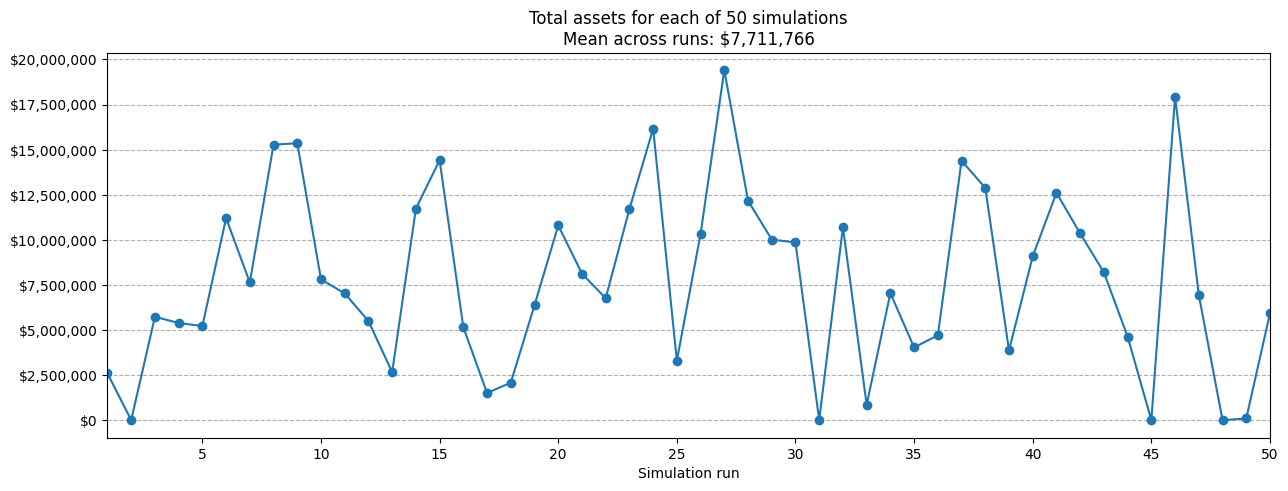
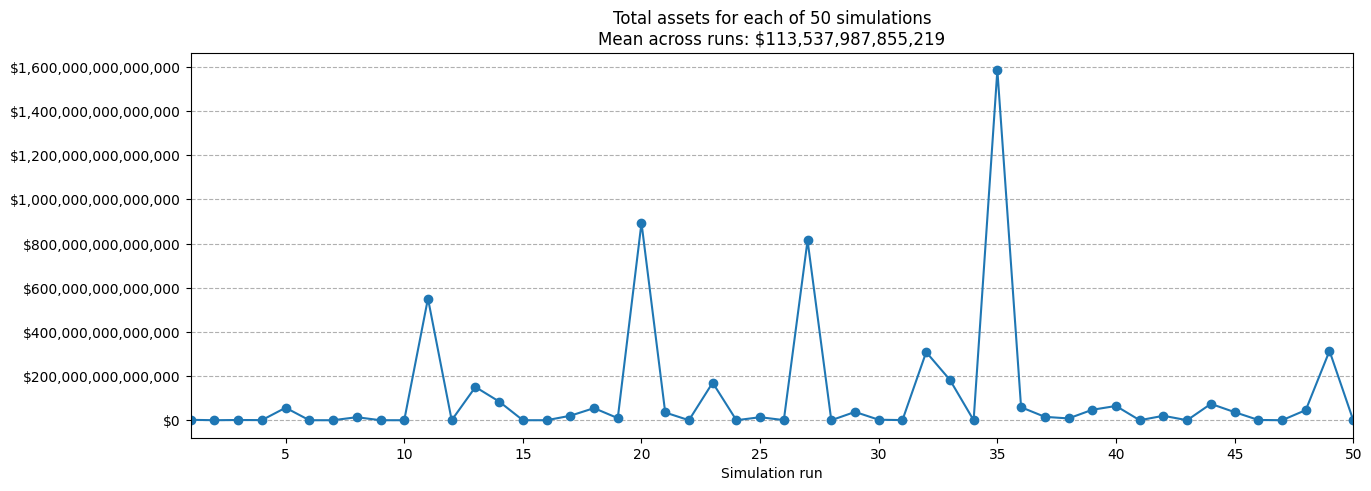
Update price function

diff --git a/simulation.py b/simulation.py
@@ -9,14 +9,8 @@ from matplotlib import ticker
 import player
 
 # Define coin constants
-#   Starting (or maximum) pool of coins X is arbitrary.
-#   Slope and intercept terms come from fitting a straight line between the following two points:
-#   (1) when there are X coins in the pool, the price should be $0.10;
-#   (2) when there are 10% of the coins left in the pool, the price should be $10.
-#   When there are 0 coins in the pool, the price will be the intercept term.
 STARTING_POOL_OF_COINS = 100000
-SLOPE = -0.00011
-INTERCEPT = 11.1
+STARTING_PRICE_IN_DOLLARS = 0.1
 
 # Define time constants
 DURATION_IN_MINUTES = 60
@@ -34,21 +28,22 @@ results = []
 
 
 # Define function to calculate price based on pool of coins
-def calculate_price(slope, intercept, pool):
-    return round(slope * pool + intercept, 2)
+def calculate_price(pool):
+    return 50000 / ((pool / 250) ** 2.2)
 
 
 # Iterate simulations
 for simulation in range(NUM_SIMULATIONS):
 
     # Initialise simulation parameters
-    seconds_remaining = DURATION_IN_MINUTES * 60
-    minutes_remaining = DURATION_IN_MINUTES
+    first_buy_transacted = False
     pool_of_coins = STARTING_POOL_OF_COINS
     trade_number = 1
+    seconds_remaining = DURATION_IN_MINUTES * 60
+    minutes_remaining = DURATION_IN_MINUTES
 
     # Initialise dictionary and dataframe to store the history of prices in previous transactions
-    history_dict = {
+    history = {
         'transaction': [],
         'price_history': [],
         'minutes_remaining': [],
@@ -64,15 +59,22 @@ for simulation in range(NUM_SIMULATIONS):
     # Iterate trades
     while seconds_remaining > 0:
 
-        # Calculate current price
-        current_price = calculate_price(SLOPE, INTERCEPT, pool_of_coins)
+        # Calculate current price (starting price differs until first buy is transacted)
+        if not first_buy_transacted:
+            current_price = STARTING_PRICE_IN_DOLLARS
+        else:
+            try:
+                current_price = calculate_price(pool_of_coins)
+            except ZeroDivisionError:
+                current_price = history['price_history'][-1]
 
         # Randomly select player
         selected_player = choice(players)
-        trade_decision, trade_proportion = selected_player.implement_trading_strategy(pandas.DataFrame(history_dict))
+        trade_decision, trade_proportion = selected_player.implement_trading_strategy(pandas.DataFrame(history))
 
         # Buy coins
         if trade_decision == 'buy':
+            first_buy_transacted = True
             money_to_spend = selected_player.money * trade_proportion
             coins_to_buy = min(int(money_to_spend // current_price), pool_of_coins)
             selected_player.coins += coins_to_buy
@@ -90,12 +92,12 @@ for simulation in range(NUM_SIMULATIONS):
 
         # Do not buy or sell coins
         if trade_decision == 'hold' and trade_number > 1:
-            current_price = history_dict['price_history'][-1]
+            current_price = history['price_history'][-1]
 
         # Update history
-        history_dict['transaction'].append(trade_number)
-        history_dict['price_history'].append(current_price)
-        history_dict['minutes_remaining'].append(minutes_remaining)
+        history['transaction'].append(trade_number)
+        history['price_history'].append(current_price)
+        history['minutes_remaining'].append(minutes_remaining)
 
         # Update simulation parameters
         trade_number += 1
@@ -103,7 +105,10 @@ for simulation in range(NUM_SIMULATIONS):
         minutes_remaining = seconds_remaining // 60
 
     # Store results of simulation
-    closing_price = calculate_price(SLOPE, INTERCEPT, pool_of_coins)
+    try:
+        closing_price = calculate_price(pool_of_coins)
+    except ZeroDivisionError:
+        closing_price = history['price_history'][-1]
     for p in players:
         p.total_assets = p.money + p.coins * closing_price
     results.append(players[0].total_assets)
